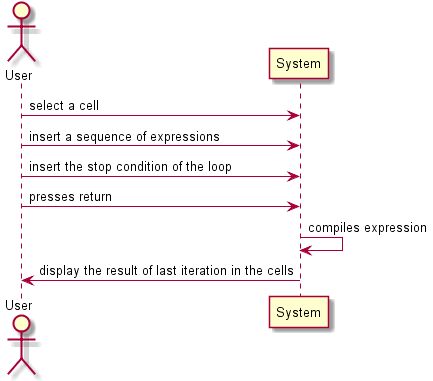
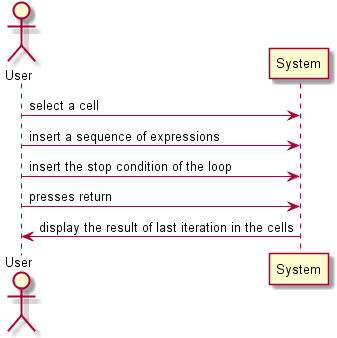
1100859: Added some sequence diagrams ref #17

diff --git a/docs/1100859/rail3_w3/Uml.java b/docs/1100859/rail3_w3/Uml.java
@@ -15,7 +15,17 @@ us -> sys : select a cell
 us -> sys : insert a sequence of expressions
 us -> sys : insert the stop condition of the loop
 us -> sys : presses return
-sys -> sys : compiles expression
+sys -> us : display the result of last iteration in the cells
+@enduml
+
+@startuml doc-files/sd_system_eval.png
+Actor User as us
+Participant System as sys
+
+us -> sys : select a cell
+us -> sys : insert the eval function
+us -> sys : insert the cell expression
+us -> sys : presses return
 sys -> us : display the result of last iteration in the cells
 @enduml
 
@@ -191,7 +201,12 @@ Function <|.. Dowhile
 * <b>System Sequence Diagram - Loop of Expressions</b>
 * </p>
 * <img src="doc-files/sd_system_do_loops.png">
-*
+* 
+* <p>
+* <b>System Sequence Diagram - Eval</b>
+* </p>
+* <img src="doc-files/sd_system_eval.png">
+* 
 *<p>
 *<b>Sequence Diagram - Implementation of loops</b>
 *</p>
